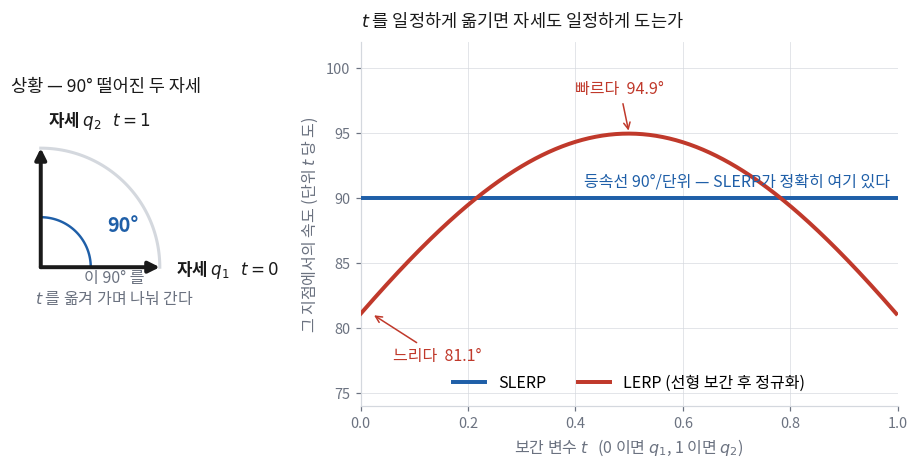
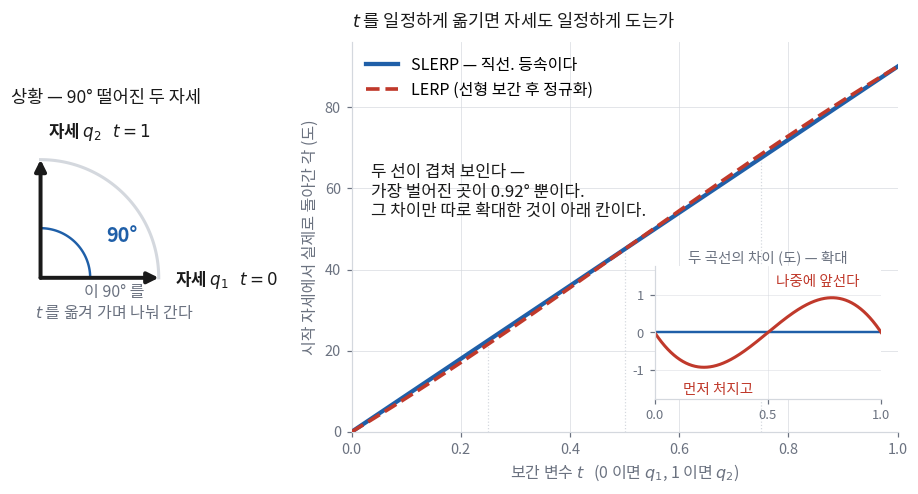
3회 SLERP 그래프를 누적 각도로 바꿈
dev 에서 배포했다.

  M	vision-slam/assets/img/03_slerp_lerp.png
  M	vision-slam/vision_slam_03.html

diff --git a/vision-slam/vision_slam_03.html b/vision-slam/vision_slam_03.html
@@ -910,27 +910,55 @@ q 와 −q 가 같은 회전인가      = 0.000e+00      ← 이중 덮개</pre>
   </p>
 
   <p>
-    실제로 등속인지 재 봤다. <strong>90° 떨어진 두 자세</strong>를 놓고 \(t\)를 0에서 1까지 옮긴다.
-    \(t\)가 1만큼 가는 동안 90°를 나눠 가야 하니, <strong>등속이라면 어디서나 「단위 \(t\)당 90°」</strong>여야 한다.
-    아래 그림 오른쪽의 <strong>세로축이 그 값</strong>이다 — 그 지점에서 \(t\)를 조금 밀었을 때
-    자세가 얼마나 도는지를 <strong>단위 \(t\)당 몇 도</strong>로 환산한 것이다.
+    <strong>실제로 등속인지 재 봤다.</strong> 90° 떨어진 두 자세를 놓고 \(t\)를 0에서 1까지 옮기면서,
+    <strong>그때마다 시작 자세에서 실제로 몇 도 돌아가 있는지</strong>를 찍은 것이 아래 그림이다.
+    \(t\)가 1만큼 가는 동안 90°를 나눠 가야 하니,
+    <strong>등속이라면 0에서 90°까지 곧은 직선</strong>이어야 한다.
   </p>
 
   <figure>
     <img src="assets/img/03_slerp_lerp.png"
-         alt="왼쪽은 90도 떨어진 두 자세를 화살표 두 개와 호로 그린 상황도. 오른쪽은 보간 변수 t에 따른 속도 그래프로, SLERP는 90도에서 평평한 직선이고 LERP는 가운데가 볼록해 81.1도에서 94.9도 사이를 오간다">
-    <figcaption>왼쪽이 상황이고 오른쪽이 결과다. <strong>SLERP는 어디서나 90°/단위로 평평하다</strong> — 등속이다.
-      <strong>LERP는 처음과 끝에서 느리고(81.1°) 가운데서 빠르다(94.9°).</strong>
-      \(t\)를 똑같이 옮겨도 실제로 도는 양이 다르다는 뜻이다.</figcaption>
+         alt="왼쪽은 90도 떨어진 두 자세를 화살표 두 개와 호로 그린 상황도. 오른쪽은 보간 변수 t에 따라 시작 자세에서 실제로 돌아간 각을 그린 그래프로, SLERP는 0에서 90도까지 곧은 직선이고 LERP는 그 위에 거의 겹쳐 보인다. 오른쪽 아래 작은 칸에 두 곡선의 차이를 확대해 그렸고 앞쪽 절반에서 마이너스 0.9도, 뒤쪽 절반에서 플러스 0.9도인 S자 곡선이다">
+    <figcaption><strong>SLERP는 직선</strong>이다 — 등속이다.
+      <strong>LERP는 그 직선을 가로지르는 S자 곡선</strong>이고, 앞쪽 절반에서 처지고 뒤쪽 절반에서 앞선다.
+      그런데 <strong>가장 벌어진 곳이 0.92°</strong>라 90°짜리 축에서는 두 선이 겹쳐 보인다 —
+      그래서 <strong>그 차이만 따로 확대한 것이 오른쪽 아래 작은 칸</strong>이다.</figcaption>
   </figure>
 
   <div class="interp">
-    <strong>해석:</strong> 최대와 최소의 비가 <strong>1.17</strong>, 즉 <strong>17 %</strong>다.
-    두 자세가 가까우면(연속한 IMU 샘플처럼 몇 도 안 떨어져 있으면) 이 차이가 거의 없어져서
-    <strong>LERP를 써도 된다</strong> — 실제로 그렇게 짠 코드가 많다.
-    <strong>먼 두 자세를 이을 때만</strong> SLERP가 필요하고, 그때 LERP를 쓰면
-    <strong>보간한 자세로 잰 각속도가 실제와 17 %까지 어긋난다.</strong>
+    <strong>해석:</strong> <strong>자세의 위치로 보면 둘이 거의 같다.</strong>
+    90°를 가는 동안 가장 많이 어긋난 곳이 0.92°다.
+    그런데 <strong>그 작은 어긋남을 미분하면 이야기가 달라진다</strong> —
+    자세가 도는 <strong>속도</strong>로 보면 LERP는 처음과 끝에서 81.1°, 가운데서 94.9°로
+    <strong>최대와 최소의 비가 1.17배(17 %)</strong>다.
+    <strong>보간한 자세를 그대로 쓸 때는 티가 안 나고, 그것으로 각속도를 재는 순간 17 % 틀린다</strong>는 뜻이다.
+    12회에서 하려는 일이 정확히 그것이라 <strong>여기서는 이 차이가 그냥 넘어갈 것이 아니다.</strong>
+  </div>
+
+  <p>
+    <strong>그럼 언제 SLERP를 써야 하나.</strong> 두 자세가 <strong>얼마나 떨어져 있느냐</strong>에 달렸다.
+    떨어진 각을 바꿔 가며 같은 것을 재 보면 이렇다.
+  </p>
+
+  <div class="tablewrap">
+  <table class="summary-table">
+    <tr><th>두 자세 사이</th><th>LERP가 직선에서 가장 벗어난 양</th><th>속도의 최대/최소</th></tr>
+    <tr><td>30°</td><td>0.03°</td><td>1.02배</td></tr>
+    <tr><td>60°</td><td>0.27°</td><td>1.07배</td></tr>
+    <tr><td><strong>90°</strong> (위 그림)</td><td><strong>0.92°</strong></td><td><strong>1.17배</strong></td></tr>
+    <tr><td>120°</td><td>2.23°</td><td>1.33배</td></tr>
+    <tr><td>150°</td><td>4.51°</td><td>1.59배</td></tr>
+  </table>
+  </div>
+
+  <div class="interp">
+    <strong>해석:</strong> <strong>가까울수록 빠르게 무해해진다.</strong>
+    30° 떨어진 두 자세를 LERP로 이으면 어긋남이 0.03°이고 속도도 2 %밖에 안 틀린다.
+    <strong>연속한 IMU 샘플처럼 몇 도 안 떨어진 자세들 사이라면 LERP를 써도 된다</strong> —
+    실제로 그렇게 짠 코드가 많고, 나쁜 선택이 아니다.
+    <strong>먼 두 자세를 이을 때만</strong> SLERP가 필요하다.
     <strong>두 자세가 얼마나 떨어져 있는지를 보고 고른다</strong> — 이것도 사람이 하는 판단이다.
+    (재현: <span class="mono">python3 vision-slam/src/rotation_numbers.py</span>)
   </div>
 
   <h3>회전행렬과 오가는 식</h3>
